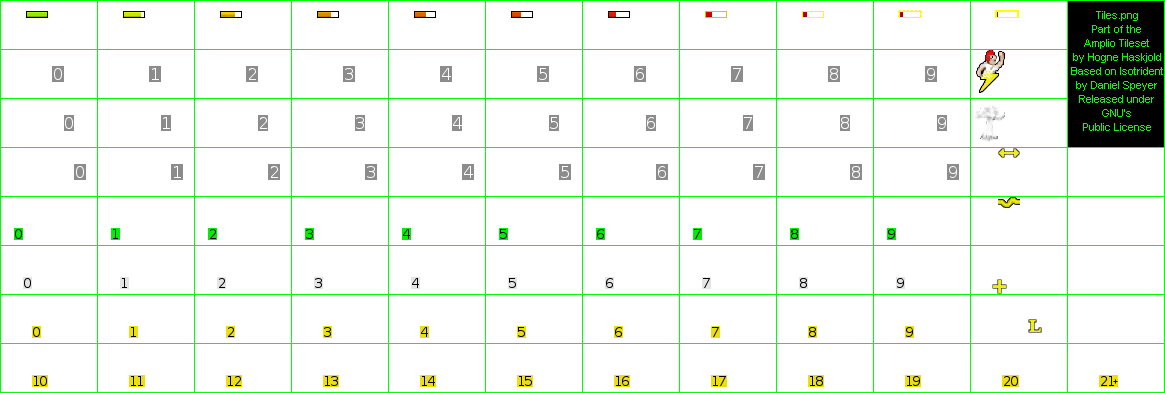
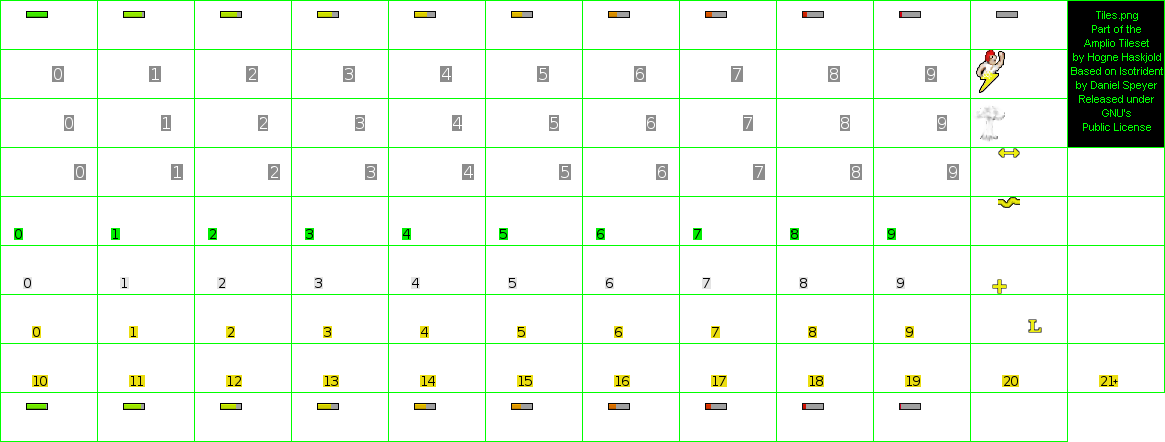
Hit point and move meter improvement.

diff --git a/freeciv-web/src/main/webapp/javascript/2dcanvas/tilespec.js b/freeciv-web/src/main/webapp/javascript/2dcanvas/tilespec.js
@@ -1034,7 +1034,7 @@ function get_unit_hp_sprite(punit)
   var hp = punit['hp'];
   var unit_type = unit_types[punit['type']];
   var max_hp = unit_type['hp'];
-  var healthpercent = 10 * Math.floor((10 * hp) / max_hp);
+  var healthpercent = (10 * Math.floor((20 * hp) / max_hp))/2; //0-100 by 5's
   var unit_offset = get_unit_anim_offset(punit);
 
   // don't push up hp bar for foreign units for which we don't know movesleft
@@ -1053,7 +1053,7 @@ function get_mp_sprite(punit)
   var mp = punit['movesleft'];
   var unit_type = unit_types[punit['type']];
   var max_mp = unit_type['move_rate'];
-  var movepercent = 10 * Math.floor((10 * mp) / max_mp);
+  var movepercent = (10 * Math.floor((20 * mp) / max_mp))/2; //0-100 by 5's
   if (movepercent>100) movepercent=100; // move bonuses can give numbers >100%
   var unit_offset = get_unit_anim_offset(punit);
 
@@ -1070,7 +1070,7 @@ function get_full_hp_sprite(punit)
   var hp = punit['hp'];
   var unit_type = unit_types[punit['type']];
   var max_hp = unit_type['hp'];
-  var healthpercent = 10 * Math.floor((10 * hp) / max_hp);
+  var healthpercent = (10 * Math.floor((20 * hp) / max_hp))/2; //0-100 by 5's
   var tag = "unit.hp_" + healthpercent;
   
   return get_sprite_from_tag(tag);
@@ -1084,9 +1084,9 @@ function get_full_mp_sprite(punit)
   var mp = punit['movesleft'];
   var unit_type = unit_types[punit['type']];
   var max_mp = unit_type['move_rate'];
-  var movepercent = 10 * Math.floor((10 * mp) / max_mp);
+  var movepercent = (10 * Math.floor((20 * mp) / max_mp))/2; //0-100 by 5's
   if (movepercent>100) movepercent=100; // move bonuses can give numbers >100
-  var tag = "unit.hp_" + movepercent;   // hp tag servers for mp too
+  var tag = "unit.hp_" + movepercent;   // hp tag serves for mp too
   
   return get_sprite_from_tag(tag);
 }

diff --git a/freeciv-web/src/main/webapp/javascript/city.js b/freeciv-web/src/main/webapp/javascript/city.js
@@ -2954,50 +2954,50 @@ function city_keyboard_listener(ev)
         }
     switch (keyboard_key) {
        case 'P':
-         previous_city();
          ev.stopPropagation();
+         previous_city();
          break;
 
        case 'V':
        case 'M':
+          ev.stopPropagation();
           city_tab_index = 0;  // Main screen / View
           $("#city_tabs").tabs({ active: city_tab_index});
-          ev.stopPropagation();
           break;
     
        case 'Q':
+         ev.stopPropagation();
          city_tab_index = 1;  // Production screen
          $("#city_tabs").tabs({ active: city_tab_index});
-         ev.stopPropagation();
          break;
 
        case 'T':
        case 'R':
+          ev.stopPropagation();
           city_tab_index = 2;  // Trade routes
           $("#city_tabs").tabs({ active: city_tab_index});
-          ev.stopPropagation();
           break;
        
        case 'O':
+          ev.stopPropagation();
           city_tab_index = 3;  // Options/Settings
           $("#city_tabs").tabs({ active: city_tab_index});
-          ev.stopPropagation();
           break;
 
        case 'W': // same command as ESC above (code 27)
-         close_city_dialog();
          ev.stopPropagation();
+         close_city_dialog();
          chatbox_scroll_to_bottom(false);
          break;
 
        case 'N':
-         next_city();
-         ev.stopPropagation();
+          ev.stopPropagation();
+          next_city();
          break;
 
        case 'B':
-         request_city_buy();
-         ev.stopPropagation();
+          ev.stopPropagation();
+          request_city_buy();
          break;
     }
   }
